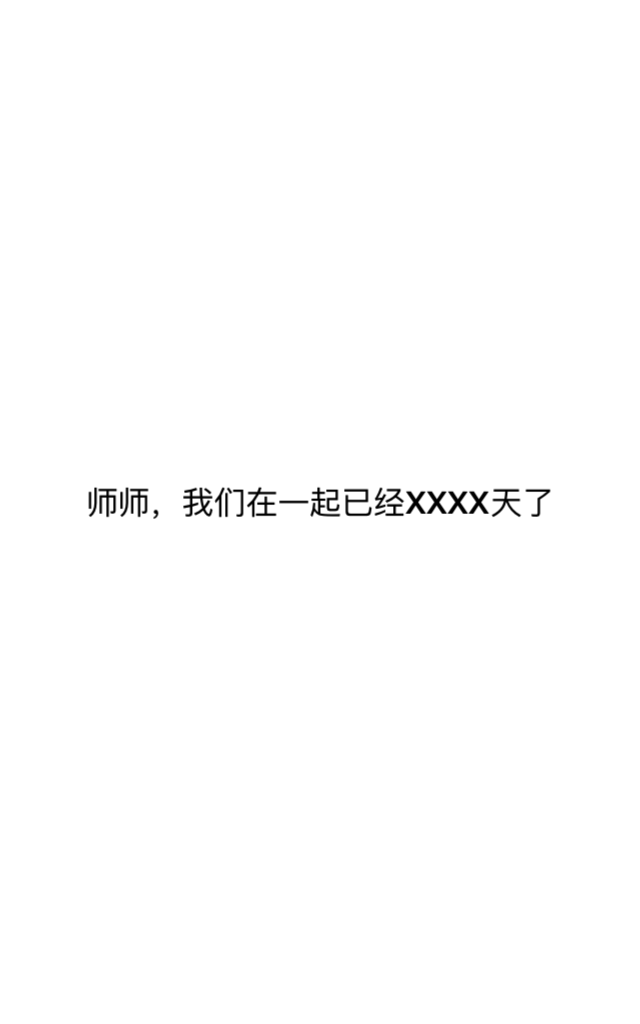
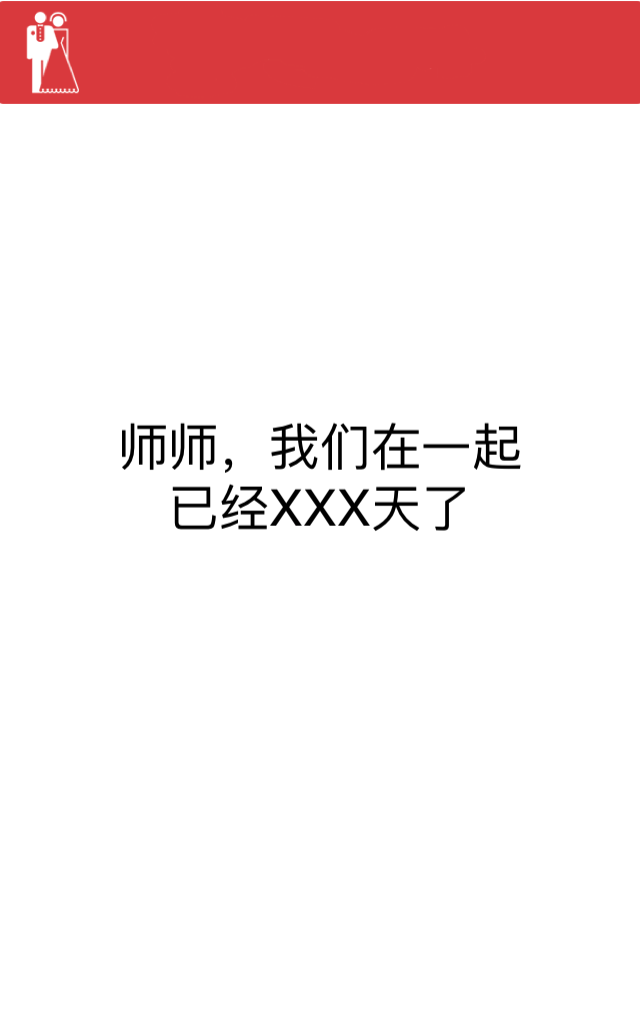
change

Changed region(s): [[0.0, 0.0, 1.0, 0.125], [0.125, 0.4062, 0.875, 0.5312]]

diff --git a/index.html b/index.html
@@ -5,7 +5,7 @@
     <meta charset="utf-8"/>
     <meta name="viewport"
           content="width=device-width,initial-scale=1.0,maximum-scale=1.0,minimum-scale=1.0,user-scalable=no"/>
-    <title>iSlider with plugins dot and button</title>
+    <title>Will you marry me</title>
     <link href="./public/css/iSlider.css" rel="stylesheet">
     <style>
         body {
@@ -82,7 +82,7 @@
     var list = [
         // picture
         {
-            content: './imgs/pic.jpg'
+            content: './imgs/0.png'
         },
         {
             content: './imgs/1.png'
